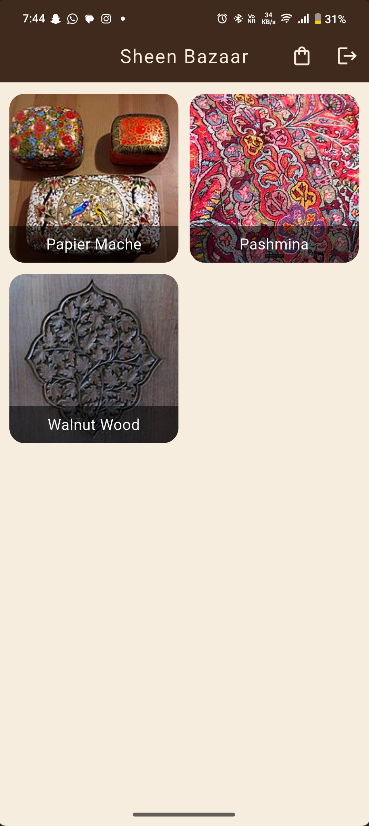
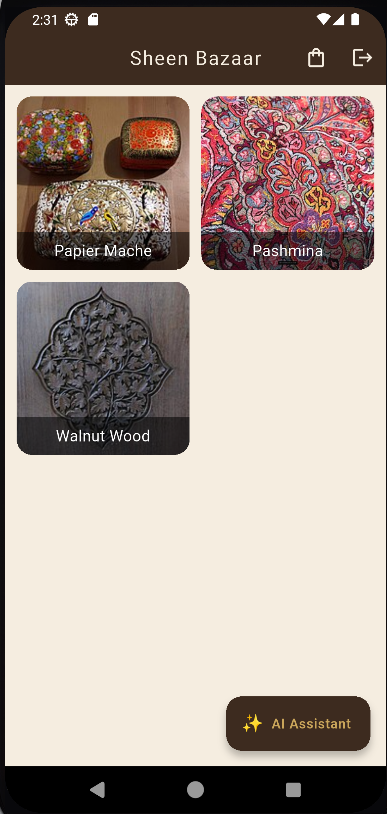
update README with AI features and new screenshots

diff --git a/README.md b/README.md
@@ -27,7 +27,7 @@
 
 <p float="left">
   <img src="screenshots/vendor_dashboard.png" width="200" alt="Vendor Dashboard"/>
-  <img src="screenshots/manage_products.png" width="200" alt="Manage Products"/>
+  <img src="screenshots/add_product.png" width="200" alt="Add Product with AI"/>
   <img src="screenshots/vendor_orders.png" width="200" alt="Vendor Orders"/>
   <img src="screenshots/admin_panel.png" width="200" alt="Admin Panel"/>
 </p>
@@ -43,11 +43,13 @@
 - Add multiple products to cart from different shops
 - Place orders with a single tap
 - Track order status in real time (Placed → Confirmed → Dispatched → Delivered)
-- View complete order history
+- View complete order history with visual progress tracker
+- **✨ AI Shopping Assistant** — type natural language queries like "traditional Kashmiri gift under ₹2000" and get intelligent product recommendations
 
 ### 🧑🎨 Vendor / Shop Owner
 - Create and manage their own shop profile
 - Add, edit and delete product listings
+- **✨ AI Description Generator** — enter a product name and let AI write a rich, authentic Kashmiri craft description instantly
 - Toggle shop open/closed status
 - View and update incoming customer orders in real time
 
@@ -57,6 +59,32 @@
 - Ban or unban vendor shops
 - View all orders placed on the platform
 - View all registered users and their roles
+
+---
+
+## 🤖 AI Features
+
+### ✨ AI Shopping Assistant (Customer)
+Powered by Claude (Anthropic), the AI Shopping Assistant helps customers find products using natural language:
+
+- Understands intent from conversational queries
+- Fetches real-time product catalog from Firestore
+- Suggests matching products with explanations
+- Filters intelligently by price, category and type
+- Maintains conversation context within the session
+
+**Example queries:**
+> "I want a traditional Kashmiri gift under ₹2000"  
+> "Show me pashmina shawls"  
+> "What wooden crafts do you have?"
+
+### ✨ AI Description Generator (Vendor)
+Vendors can generate rich, authentic product descriptions with one tap:
+
+- Enter the product name and select category
+- Tap the ✨ button next to the description field
+- Claude generates a culturally rich, detailed description instantly
+- Highlights handmade nature and cultural significance of the craft
 
 ---
 
@@ -72,9 +100,12 @@ sheen_bazaar/
 │   │   └── product_model.dart
 │   ├── services/
 │   │   ├── category_service.dart
-│   │   └── shop_service.dart
+│   │   ├── shop_service.dart
+│   │   └── claude_service.dart    # Claude API integration
 │   ├── providers/
 │   │   └── cart_provider.dart     # Global cart state (Provider)
+│   ├── config/
+│   │   └── api_config.dart        # API keys (excluded from Git)
 │   └── screens/
 │       ├── splash_screen.dart     # 3s branded splash + auth routing
 │       ├── auth/
@@ -86,11 +117,12 @@ sheen_bazaar/
 │       │   ├── product_detail.dart
 │       │   ├── cart_screen.dart
 │       │   ├── cart_icon_button.dart
-│       │   └── order_history.dart
+│       │   ├── order_history.dart
+│       │   └── ai_assistant.dart  # AI Shopping Assistant ✨
 │       ├── shop_owner/
 │       │   ├── shop_dashboard.dart
 │       │   ├── create_shop.dart
-│       │   ├── manage_products.dart
+│       │   ├── manage_products.dart  # AI Description Generator ✨
 │       │   └── vendor_orders.dart
 │       └── admin/
 │           ├── admin_panel.dart
@@ -166,6 +198,7 @@ createdAt : Timestamp
 - Flutter SDK (3.x or above)
 - Android Studio or VS Code
 - Firebase account
+- Anthropic API key ([console.anthropic.com](https://console.anthropic.com))
 - Git
 
 ### Steps
@@ -189,7 +222,18 @@ flutter pub get
 - Download `google-services.json` and place it in `android/app/`
 - Run `flutterfire configure` to generate `lib/firebase_options.dart`
 
-**4. Firestore Indexes**
+**4. API Key Setup**
+
+Create `lib/config/api_config.dart`:
+```dart
+class ApiConfig {
+  static const String claudeApiKey = 'your-claude-api-key-here';
+}
+```
+
+> ⚠ This file is excluded from Git via `.gitignore` to protect your API key.
+
+**5. Firestore Indexes**
 
 Create these composite indexes in Firebase Console → Firestore → Indexes:
 
@@ -198,7 +242,7 @@ Create these composite indexes in Firebase Console → Firestore → Indexes:
 | orders | shopId (Asc) | createdAt (Desc) | Collection |
 | orders | userId (Asc) | createdAt (Desc) | Collection |
 
-**5. Run the app**
+**6. Run the app**
 ```bash
 flutter run
 ```
@@ -222,6 +266,8 @@ flutter run
 | Cloud Firestore | NoSQL database |
 | Firebase Storage | Image storage |
 | Provider | State management (cart) |
+| Claude API (Anthropic) | AI Shopping Assistant + Description Generator |
+| http | REST API calls to Claude |
 | image_picker | Image selection from gallery |
 
 ---
@@ -229,12 +275,13 @@ flutter run
 ## 🔮 Future Scope
 
 - Payment gateway integration (Razorpay / UPI)
-- AI-based product recommendations
-- Multilingual support (Urdu, Hindi, Kashmiri)
 - Augmented Reality product preview
+- Multilingual support (Urdu, Hindi, Kashmiri)
 - Push notifications for order updates
 - Vendor analytics dashboard
 - Customer reviews and ratings system
+- Firebase Storage for direct image uploads
+- AI-powered "You might also like" recommendations
 
 ---
 
@@ -243,3 +290,4 @@ flutter run
 This project was developed as an academic major project at **Manipal University Jaipur**.  
 © 2026 Hakim Mohammad Iisa. All rights reserved.
 ```
+
